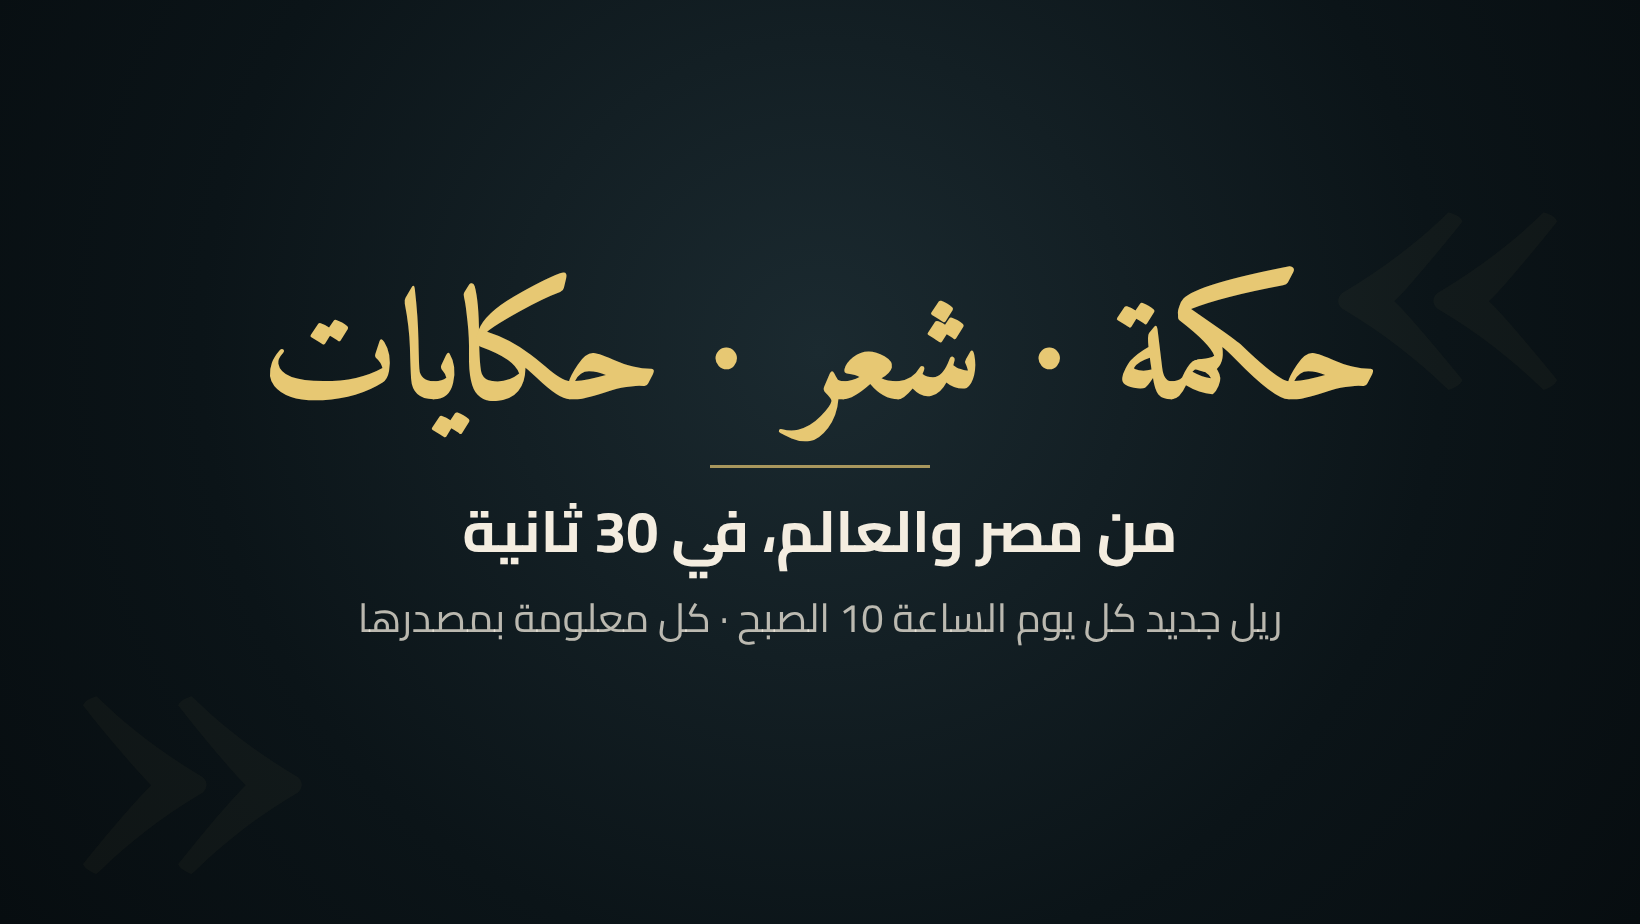
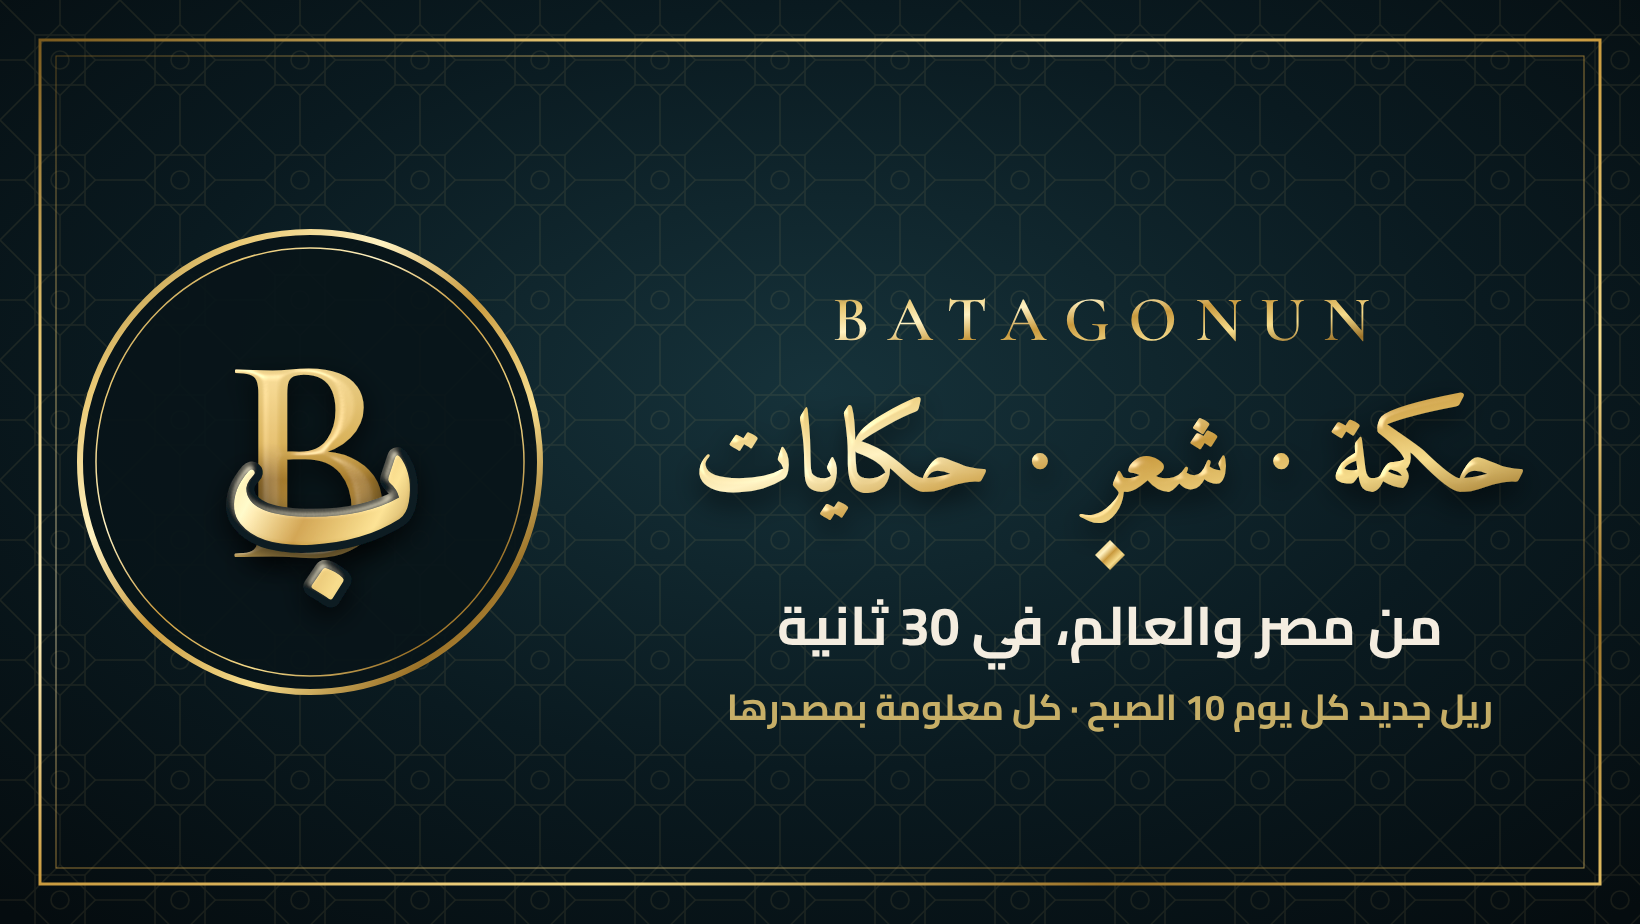
Brand v2: gold seal monogram (B + ب) and Facebook cover
Claude-Session: https://claude.ai/code/session_014DGXiXjySD2k7u4dBqwjVk

diff --git a/instagram-agent/brand/brand2.html b/instagram-agent/brand/brand2.html
@@ -1,0 +1,105 @@
+<!doctype html><html><head><meta charset="utf-8">
+<style>
+@font-face{font-family:'Amiri';src:url('../fonts/Amiri-Bold.ttf');font-weight:700}
+@font-face{font-family:'Cairo';src:url('../fonts/Cairo-Bold.ttf');font-weight:700}
+@font-face{font-family:'Corm';src:url('../fonts/Cormorant-SemiBold.ttf');font-weight:600}
+*{margin:0;padding:0}body{background:#000}
+svg{display:block}
+</style></head><body>
+<!-- Shared defs -->
+<svg width="0" height="0" style="position:absolute">
+ <defs>
+  <linearGradient id="foil" x1="0" y1="0" x2="1" y2="1">
+   <stop offset="0" stop-color="#7a5a1e"/><stop offset=".18" stop-color="#e9c873"/>
+   <stop offset=".34" stop-color="#fff2c2"/><stop offset=".5" stop-color="#c99a3e"/>
+   <stop offset=".68" stop-color="#f6dc8c"/><stop offset=".84" stop-color="#9b7228"/>
+   <stop offset="1" stop-color="#e2bd62"/>
+  </linearGradient>
+  <linearGradient id="foilV" x1="0" y1="0" x2="0" y2="1">
+   <stop offset="0" stop-color="#fff0bd"/><stop offset=".45" stop-color="#d9b25a"/>
+   <stop offset=".55" stop-color="#a77c2d"/><stop offset="1" stop-color="#f1d585"/>
+  </linearGradient>
+  <radialGradient id="bg" cx=".5" cy=".42" r=".75">
+   <stop offset="0" stop-color="#16323a"/><stop offset=".55" stop-color="#0a1a20"/><stop offset="1" stop-color="#050c0f"/>
+  </radialGradient>
+  <!-- 8-point star girih tile -->
+  <pattern id="girih" width="120" height="120" patternUnits="userSpaceOnUse">
+   <g fill="none" stroke="#e7c873" stroke-width="1.6" opacity=".55">
+    <rect x="35" y="35" width="50" height="50"/>
+    <rect x="35" y="35" width="50" height="50" transform="rotate(45 60 60)"/>
+    <circle cx="60" cy="60" r="9"/>
+    <path d="M0 0L35 35M120 0L85 35M0 120L35 85M120 120L85 85"/>
+    <path d="M60 0V25M60 95V120M0 60H25M95 60H120"/>
+   </g>
+  </pattern>
+  <filter id="emboss" x="-20%" y="-20%" width="140%" height="140%">
+   <feGaussianBlur in="SourceAlpha" stdDeviation="4" result="b"/>
+   <feSpecularLighting in="b" surfaceScale="5" specularConstant=".9" specularExponent="22" lighting-color="#fff6d8" result="s">
+    <fePointLight x="-300" y="-400" z="500"/>
+   </feSpecularLighting>
+   <feComposite in="s" in2="SourceAlpha" operator="in" result="s2"/>
+   <feComposite in="SourceGraphic" in2="s2" operator="arithmetic" k1="0" k2="1" k3=".55" k4="0" result="lit"/>
+   <feDropShadow dx="0" dy="10" stdDeviation="14" flood-color="#000" flood-opacity=".7"/>
+  </filter>
+  <filter id="glow"><feGaussianBlur stdDeviation="30"/></filter>
+ </defs>
+</svg>
+
+<!-- PROFILE: seal with B + ب monogram -->
+<svg id="prof" width="1080" height="1080" viewBox="0 0 1080 1080">
+ <rect width="1080" height="1080" fill="url(#bg)"/>
+ <rect width="1080" height="1080" fill="url(#girih)" opacity=".18"/>
+ <circle cx="540" cy="540" r="470" fill="#081418" opacity=".85"/>
+ <!-- rings -->
+ <circle cx="540" cy="540" r="470" fill="none" stroke="url(#foil)" stroke-width="10"/>
+ <circle cx="540" cy="540" r="448" fill="none" stroke="url(#foil)" stroke-width="2.5"/>
+ <circle cx="540" cy="540" r="330" fill="none" stroke="url(#foil)" stroke-width="3"/>
+ <circle cx="540" cy="540" r="318" fill="none" stroke="url(#foil)" stroke-width="1.2" stroke-dasharray="2 10"/>
+ <!-- arc paths for curved text -->
+ <path id="arcTop" d="M 150 540 A 390 390 0 0 1 930 540" fill="none"/>
+ <path id="arcBot" d="M 175 560 A 365 365 0 0 0 905 560" fill="none"/>
+ <text font-family="Corm" font-weight="600" font-size="78" letter-spacing="20" fill="url(#foil)">
+  <textPath href="#arcTop" startOffset="50%" text-anchor="middle">BATAGONUN</textPath></text>
+ <text font-family="Amiri" font-weight="700" font-size="74" fill="url(#foil)" direction="rtl">
+  <textPath href="#arcBot" startOffset="50%" text-anchor="middle">حكمة · شعر · حكايات</textPath></text>
+ <!-- side diamonds -->
+ <g fill="url(#foil)"><path d="M120 540l16-16 16 16-16 16z"/><path d="M928 540l16-16 16 16-16 16z"/></g>
+ <!-- monogram -->
+ <circle cx="540" cy="520" r="230" fill="#e7c873" opacity=".10" filter="url(#glow)"/>
+ <g filter="url(#emboss)">
+  <text x="540" y="690" text-anchor="middle" font-family="Corm" font-weight="600" font-size="520" fill="url(#foilV)" opacity=".95">B</text>
+ </g>
+ <g filter="url(#emboss)">
+  <text x="560" y="660" text-anchor="middle" font-family="Amiri" font-weight="700" font-size="380" fill="#0a1a20" stroke="#0a1a20" stroke-width="26" stroke-linejoin="round">ب</text>
+  <text x="560" y="660" text-anchor="middle" font-family="Amiri" font-weight="700" font-size="380" fill="url(#foil)">ب</text>
+ </g>
+</svg>
+
+<!-- FACEBOOK COVER -->
+<svg id="cover" width="1640" height="924" viewBox="0 0 1640 924">
+ <rect width="1640" height="924" fill="url(#bg)"/>
+ <rect width="1640" height="924" fill="url(#girih)" opacity=".16"/>
+ <rect x="40" y="40" width="1560" height="844" fill="none" stroke="url(#foil)" stroke-width="3"/>
+ <rect x="56" y="56" width="1528" height="812" fill="none" stroke="url(#foil)" stroke-width="1" opacity=".7"/>
+ <!-- mini seal on the left -->
+ <g transform="translate(310 462)">
+  <circle r="230" fill="#081418" opacity=".9"/>
+  <circle r="230" fill="none" stroke="url(#foil)" stroke-width="6"/>
+  <circle r="214" fill="none" stroke="url(#foil)" stroke-width="1.5"/>
+  <g filter="url(#emboss)"><text x="0" y="95" text-anchor="middle" font-family="Corm" font-weight="600" font-size="300" fill="url(#foilV)">B</text></g>
+  <g filter="url(#emboss)">
+   <text x="12" y="78" text-anchor="middle" font-family="Amiri" font-weight="700" font-size="220" fill="#0a1a20" stroke="#0a1a20" stroke-width="16" stroke-linejoin="round">ب</text>
+   <text x="12" y="78" text-anchor="middle" font-family="Amiri" font-weight="700" font-size="220" fill="url(#foil)">ب</text>
+  </g>
+ </g>
+ <!-- text block on the right -->
+ <g direction="rtl" text-anchor="middle">
+  <text x="1110" y="340" font-family="Corm" font-weight="600" font-size="64" letter-spacing="18" fill="url(#foil)" direction="ltr">BATAGONUN</text>
+  <g filter="url(#emboss)"><text x="1110" y="490" font-family="Amiri" font-weight="700" font-size="112" fill="url(#foil)">حكمة · شعر · حكايات</text></g>
+  <path d="M930 555H1290" stroke="url(#foil)" stroke-width="3"/>
+  <path d="M1110 540l15 15-15 15-15-15z" fill="url(#foil)"/>
+  <text x="1110" y="645" font-family="Cairo" font-weight="700" font-size="54" fill="#f4ede0">من مصر والعالم، في 30 ثانية</text>
+  <text x="1110" y="720" font-family="Cairo" font-weight="700" font-size="36" fill="#e7c873" opacity=".85">ريل جديد كل يوم 10 الصبح · كل معلومة بمصدرها</text>
+ </g>
+</svg>
+</body></html>
